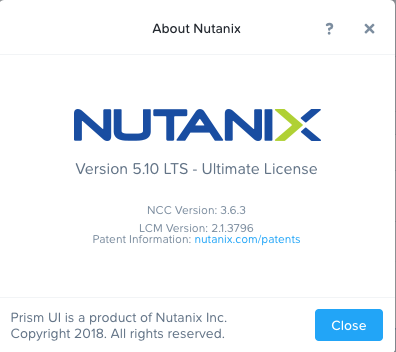
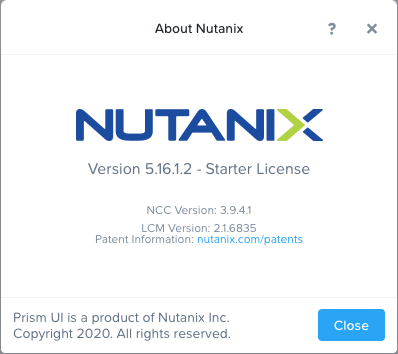
Updated Workshop
Updated to the 5.16 version as well as some small issues like typos and extra warnings.

diff --git a/index.rst b/index.rst
@@ -87,23 +87,19 @@ Nutanix Workshops are intended to be run in the Nutanix Hosted POC environment. 
 Networking
 ..........
 
-Hosted POC clusters follow a standard naming convention:
+POC clusters follow a standard naming convention:
 
-- **Cluster Name** - POC\ *XYZ*
-- **Subnet** - 10.**21**.\ *XYZ*\ .0
-- **Cluster IP** - 10.**21**.\ *XYZ*\ .37
-
-If provisioned from the marketing pool:
-
-- **Cluster Name** - MKT\ *XYZ*
-- **Subnet** - 10.**20**.\ *XYZ*\ .0
-- **Cluster IP** - 10.**20**.\ *XYZ*\ .37
+- **Data Center** - *X*
+- **Cluster Name** - POC\ *Y*
+- **Subnet** - 10.\ *X*\.\ *Y*\ .0
+- **Cluster IP** - 10.\ *X*\.\ *Y*\ .37
 
 For example:
 
+- **Data Center** - Phoenix
 - **Cluster Name** - POC055
-- **Subnet** - 10.21.55.0
-- **Cluster IP** - 10.21.55.37
+- **Subnet** - 10.42.55.0
+- **Cluster IP** - 10.42.55.37
 
 Throughout the Workshop there are multiple instances where you will need to substitute *XYZ* with the correct octet for your subnet, for example:
 
@@ -113,11 +109,11 @@ Throughout the Workshop there are multiple instances where you will need to subs
 
    * - IP Address
      - Description
-   * - 10.21.\ *XYZ*\ .37
+   * - 10.\ *X*\ .\ *Y*\ .37
      - Nutanix Cluster Virtual IP
-   * - 10.21.\ *XYZ*\ .39
+   * - 10.\ *X*\ .\ *Y*\ .39
      - **PC** VM IP, Prism Central
-   * - 10.21.\ *XYZ*\ .40
+   * - 10.\ *X*\ .\ *Y*\ .40
      - **DC** VM IP, NTNXLAB.local Domain Controller
 
 Each cluster is configured with 2 VLANs which can be used for VMs:
@@ -131,13 +127,13 @@ Each cluster is configured with 2 VLANs which can be used for VMs:
     - VLAN
     - DHCP Scope
   * - Primary
-    - 10.21.\ *XYZ*\ .1/25
+    - 10.\ *X*\ .\ *Y*\ .1/25
     - 0
-    - 10.21.\ *XYZ*\ .50-10.21.\ *XYZ*\ .124
+    - 10.\ *X*\ .\ *Y*\ .50-10.\ *X*\ .\ *Y*\ .124
   * - Secondary
-    - 10.21.\ *XYZ*\ .129/25
-    - *XYZ1*
-    - 10.21.\ *XYZ*\ .132-10.21.\ *XYZ*\ .253
+    - 10.\ *X*\ .\ *Y*\ .129/25
+    - *Y1* or *Y3*
+    - 10.\ *X*\ .\ *Y*\ .132-10.\ *X*\ .\ *Y*\ .253
 
 Credentials
 ...........
@@ -261,6 +257,6 @@ For RTP:
 Nutanix Version Info
 ++++++++++++++++++++
 
-- **AHV Version** - AHV 20170830.337
-- **AOS Version** - 5.11.2.3
-- **PC Version** - 5.11.2.1
+- **AHV Version** - AHV 20190916.158
+- **AOS Version** - 5.16.1.2
+- **PC Version** - 5.17.0.3

diff --git a/lab_nutanix_tech_overview/lab_nutanix_tech_overview.rst b/lab_nutanix_tech_overview/lab_nutanix_tech_overview.rst
@@ -82,7 +82,7 @@ Prism Element UI Review
 
 Where would you locate the version of AOS you are running?
 
-.. figure:: images/nutanix_tech_overview_06_5-11.png
+.. figure:: images/nutanix_tech_overview_06.png
 
 You can do this by clicking on the **User** drop down :fa:`user`, and clicking **About Nutanix**.
 
